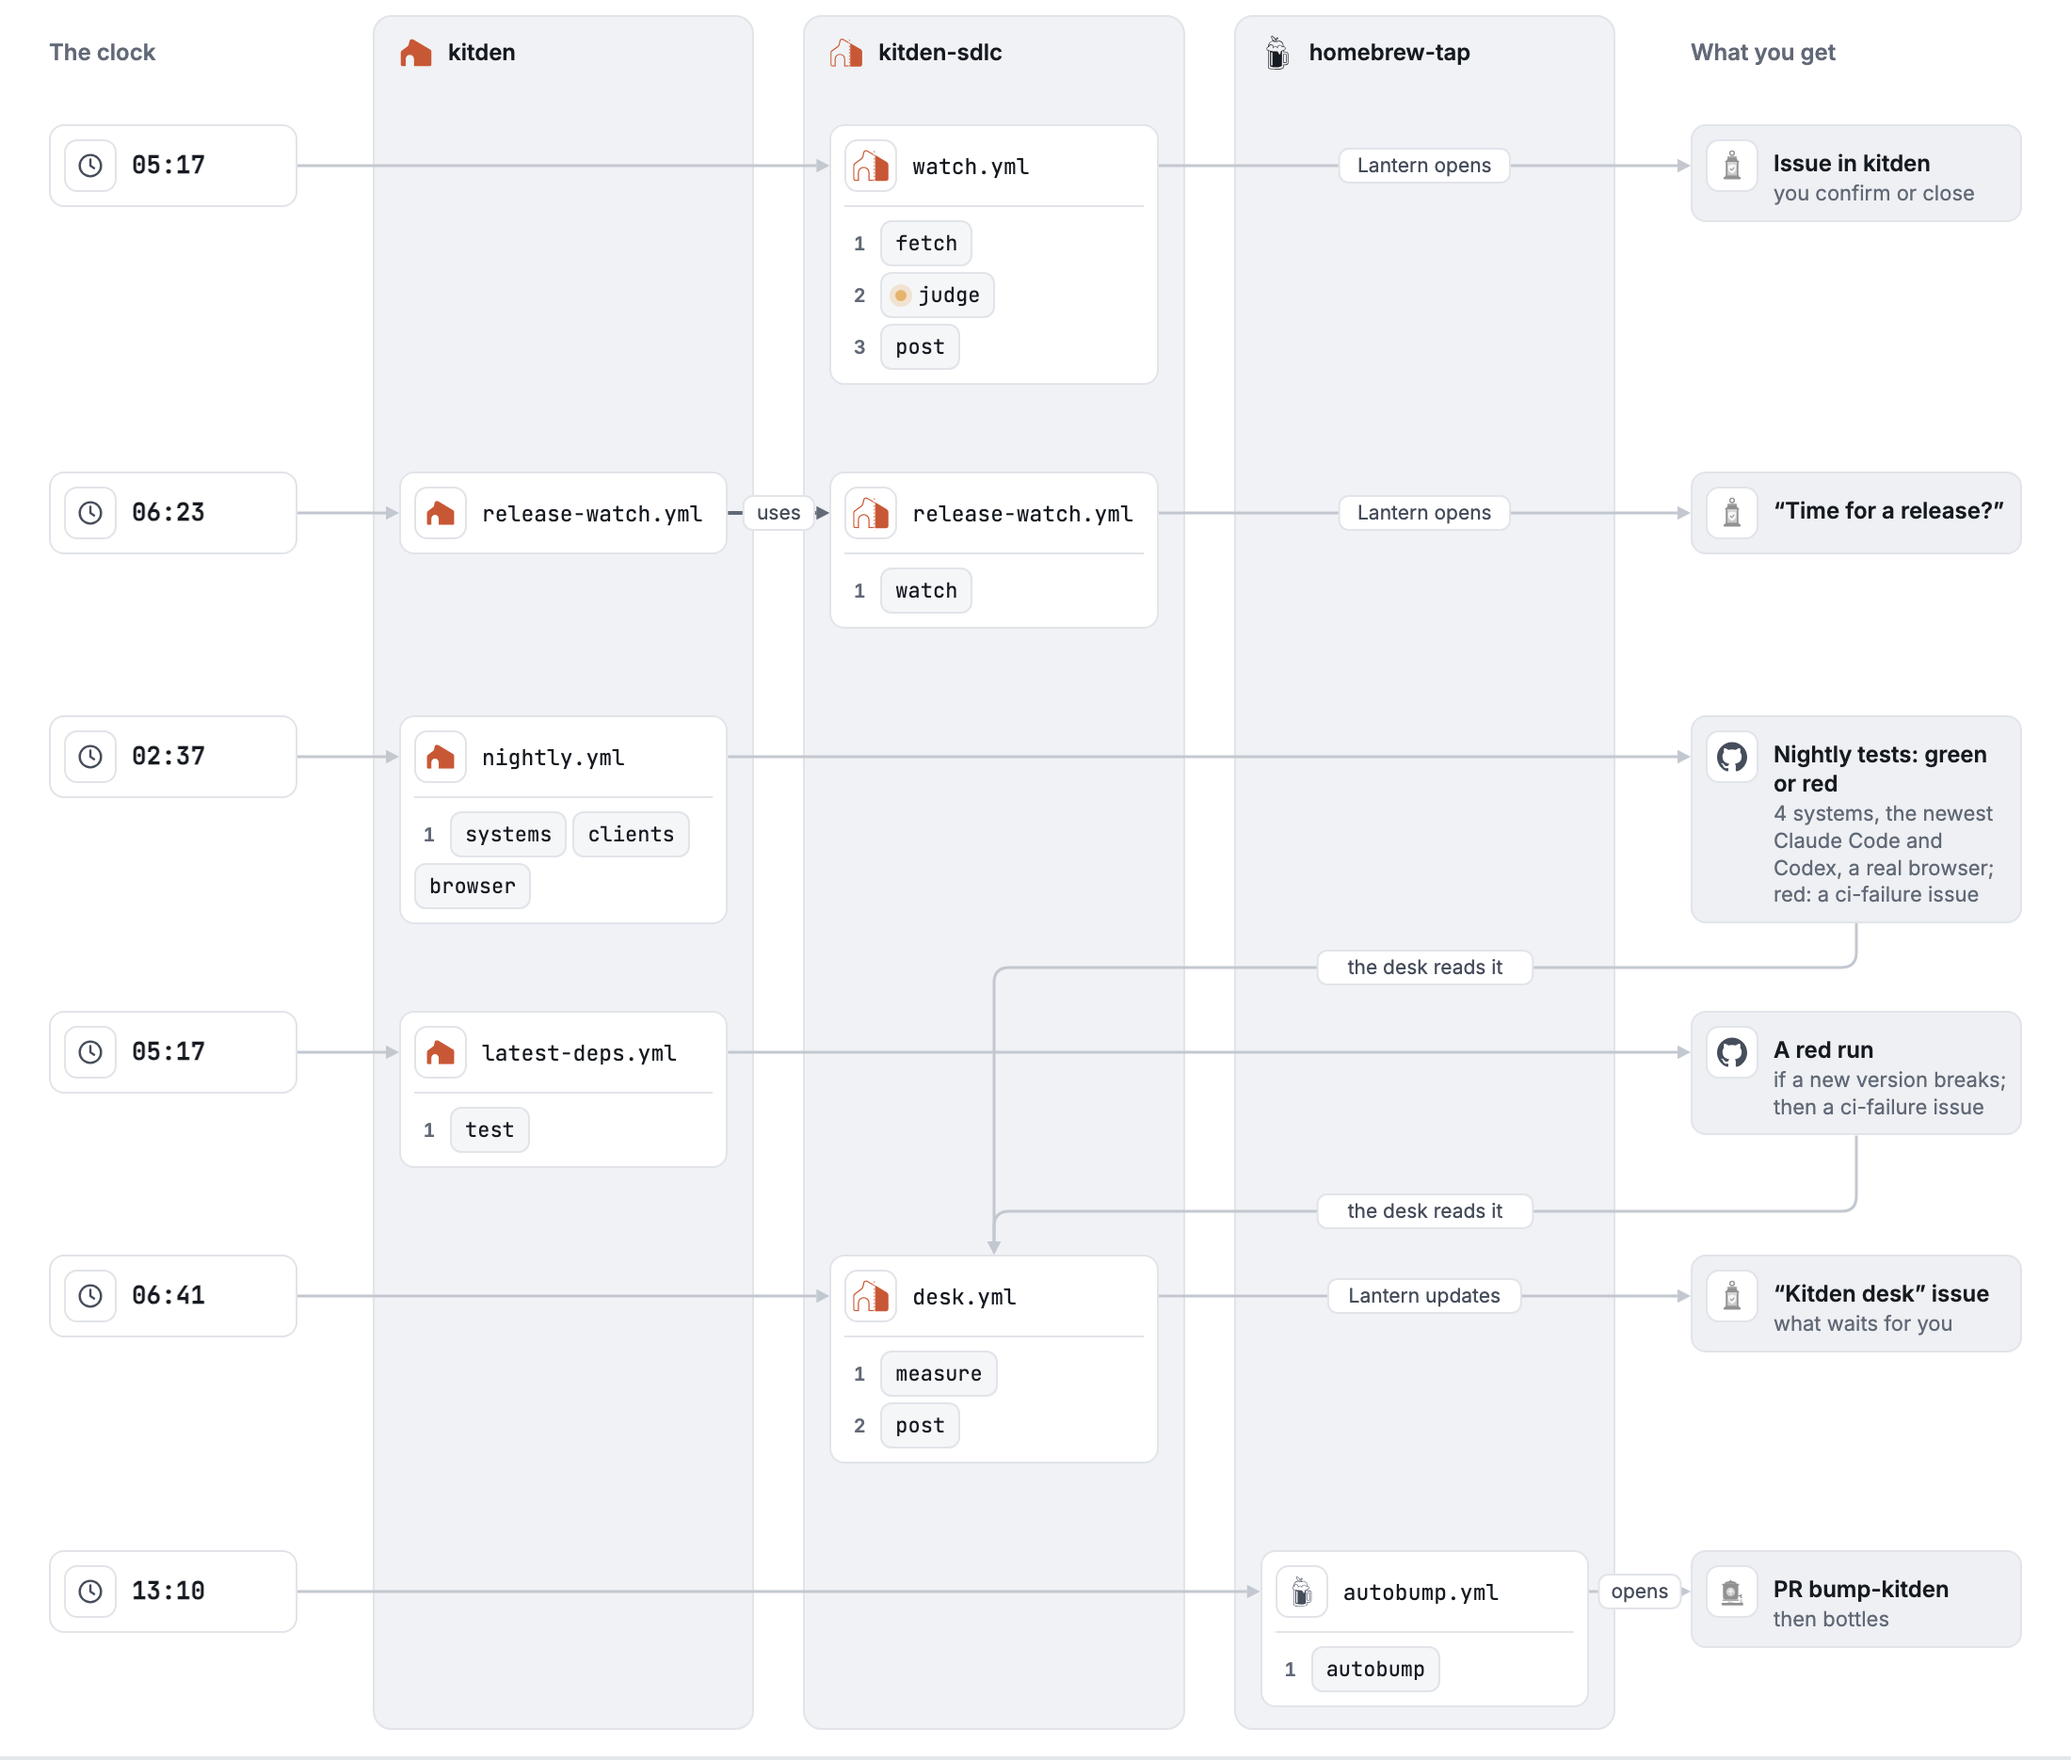
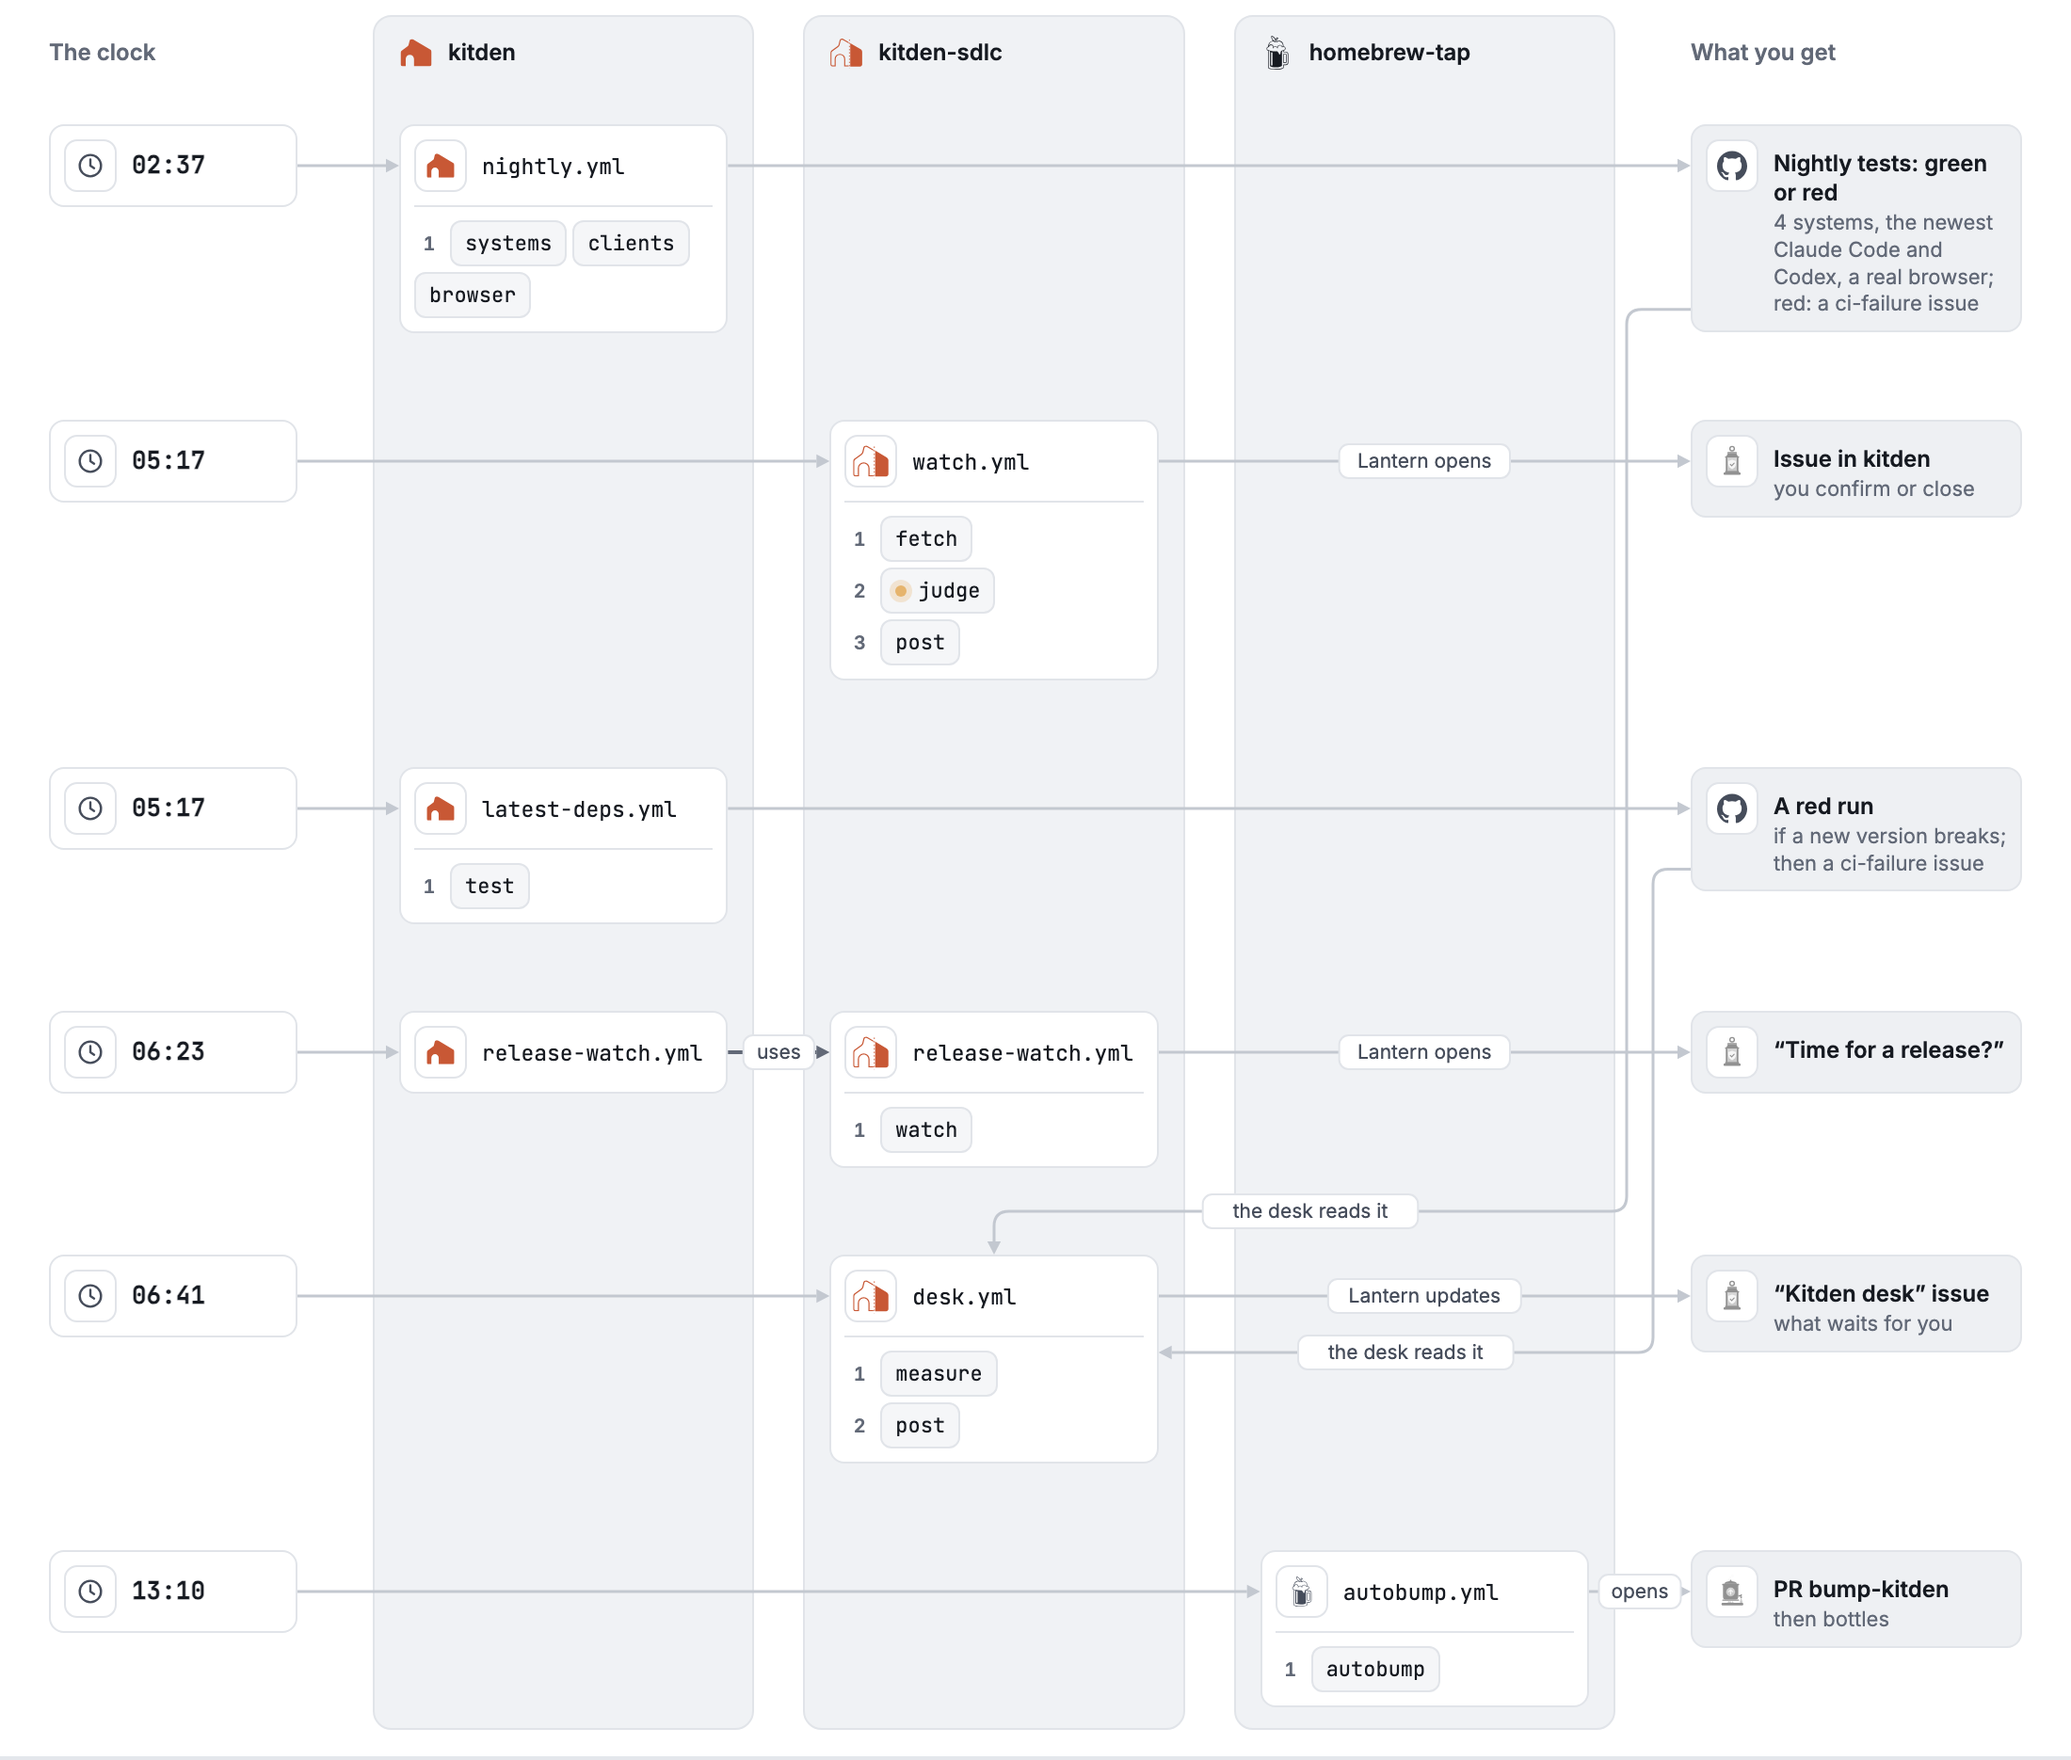
Keep the clock in order in the Every day story

diff --git a/docs/map/index.html b/docs/map/index.html
@@ -612,7 +612,10 @@ function setHash(h){ try { history.replaceState(null, '', '#' + h); } catch (e) 
 
 /* ================= map: cause and effect ================= */
 /* A story is rows of blocks. A block sits in the column of the place it runs in.
-   An edge is [from, to, why, shape]: h = same row, z = down to the next row, l = down then right. */
+   An edge is [from, to, why, shape]: h = same row, z = down to the next row, l = down then right,
+   r and t = out of the left side of a card in the last column, down the gap before that column,
+   then left into the right side (r) or, along the gap above its row, into the top (t) of a card
+   rows below. */
 const LANE = {you:1, k:2, s:3, t:4, get:5};
 const STORIES = {
   pr:{note:'Agents never block a merge. After you merge, the daily release watch notices, and every night nightly.yml runs the tests a pull request does not: see Every day.',
@@ -646,16 +649,16 @@ const STORIES = {
       ['bump','t-tests','starts','z'],['t-tests','t-auto-pull','tests pass','z'],['t-auto-pull','t-publish','starts','z'],['t-publish','brew','','h']]},
   day:{note:'Times are UTC. Nothing here needs you until an issue, a pull request or a red run shows up.',
     rows:[
-      [{id:'c1', kind:'clock', t:'05:17'}, {wf:'s-watch', stages:[['fetch'],['judge'],['post']]}, {id:'d1', kind:'thing', ic:'lantern', t:'Issue in kitden', sub:'you confirm or close'}],
-      [{id:'c3', kind:'clock', t:'06:23'}, {wf:'k-release-watch'}, {wf:'s-release-watch'}, {id:'d3', kind:'thing', ic:'lantern', t:'“Time for a release?”', go:'rel'}],
       [{id:'c0', kind:'clock', t:'02:37'}, {wf:'k-nightly'}, {id:'d0', kind:'thing', ic:'github', t:'Nightly tests: green or red', sub:'4 systems, the newest Claude Code and Codex, a real browser; red: a ci-failure issue'}],
+      [{id:'c1', kind:'clock', t:'05:17'}, {wf:'s-watch', stages:[['fetch'],['judge'],['post']]}, {id:'d1', kind:'thing', ic:'lantern', t:'Issue in kitden', sub:'you confirm or close'}],
       [{id:'c2', kind:'clock', t:'05:17'}, {wf:'k-latest-deps'}, {id:'d2', kind:'thing', ic:'github', t:'A red run', sub:'if a new version breaks; then a ci-failure issue'}],
+      [{id:'c3', kind:'clock', t:'06:23'}, {wf:'k-release-watch'}, {wf:'s-release-watch'}, {id:'d3', kind:'thing', ic:'lantern', t:'“Time for a release?”', go:'rel'}],
       [{id:'c4', kind:'clock', t:'06:41'}, {wf:'s-desk'}, {id:'d4', kind:'thing', ic:'lantern', t:'“Kitden desk” issue', sub:'what waits for you'}],
       [{id:'c5', kind:'clock', t:'13:10'}, {wf:'t-autobump'}, {id:'d5', kind:'thing', ic:'kettle', t:'PR bump-kitden', sub:'then bottles', go:'rel'}]
     ],
     edges:[['c0','k-nightly','','h'],['k-nightly','d0','','h'],['c1','s-watch','','h'],['s-watch','d1','Lantern opens','h'],['c2','k-latest-deps','','h'],['k-latest-deps','d2','','h'],
       ['c3','k-release-watch','','h'],['k-release-watch','s-release-watch','uses','h'],['s-release-watch','d3','Lantern opens','h'],
-      ['d0','s-desk','the desk reads it','z'],['d2','s-desk','the desk reads it','z'],
+      ['d0','s-desk','the desk reads it','t'],['d2','s-desk','the desk reads it','r'],
       ['c4','s-desk','','h'],['s-desk','d4','Lantern updates','h'],['c5','t-autobump','','h'],['t-autobump','d5','opens','h']]}
 };
 const flow = $('flow');
@@ -720,9 +723,11 @@ function draw(){
     else { const y = bottom[nodes[a].row] + 23; dir = 90;
       if (Math.abs(A.cx - B.cx) < 2){ pts = [[A.cx, A.b], [B.cx, B.t - 7]]; lx = A.cx; ly = (A.b + B.t) / 2; }
       else { pts = [[A.cx, A.b], [A.cx, y], [B.cx, y], [B.cx, B.t - 7]]; lx = (A.cx + B.cx) / 2; ly = y; } }
+    if (shape === 'r'){ const x = A.l - 20, y = B.t + 52; pts = [[A.l, A.b - 12], [x, A.b - 12], [x, y], [B.r + 7, y]]; lx = (x + B.r) / 2; ly = y; dir = 180; }
+    if (shape === 't'){ const x = A.l - 34, y = bottom[nodes[b].row - 1] + 23; pts = [[A.l, A.b - 12], [x, A.b - 12], [x, y], [B.cx, y], [B.cx, B.t - 7]]; lx = (x + B.cx) / 2; ly = y; dir = 90; }
     const [ex, ey] = pts[pts.length - 1], tw = why.length * 5.9 + 14;
     out += '<g class="fe' + (why === 'uses' ? ' u' : '') + '" data-e="' + i + '"><path d="' + line(pts) + '"/>' +
-      '<polygon points="0,0 -7,-3.6 -7,3.6" transform="translate(' + (dir ? ex : ex + 7) + ' ' + (dir ? ey + 7 : ey) + ') rotate(' + dir + ')"/>' +
+      '<polygon points="0,0 -7,-3.6 -7,3.6" transform="translate(' + (dir === 180 ? ex - 7 : dir ? ex : ex + 7) + ' ' + (dir === 90 ? ey + 7 : ey) + ') rotate(' + dir + ')"/>' +
       (why ? '<rect x="' + (lx - tw / 2) + '" y="' + (ly - 9) + '" width="' + tw + '" height="18" rx="5"/><text x="' + lx + '" y="' + (ly + 3.6) + '" text-anchor="middle">' + esc(why) + '</text>' : '') + '</g>';
   });
   svg.innerHTML = out;

diff --git a/tests/test_map_text.py b/tests/test_map_text.py
@@ -212,16 +212,16 @@ def test_the_every_day_story_draws_the_nightly_run_and_who_reads_it():
     assert "red: a ci-failure issue" in day and "emails" not in day
     assert "['c0','k-nightly','','h'],['k-nightly','d0','','h']" in day
     assert day.count("'s-desk','the desk reads it'") == 2
-    assert "['d0','s-desk','the desk reads it','z']" in day
-    assert "['d2','s-desk','the desk reads it','z']" in day
+    assert "['d0','s-desk','the desk reads it','t']" in day
+    assert "['d2','s-desk','the desk reads it','r']" in day
 
 
-def test_the_nightly_and_latest_deps_rows_sit_right_above_the_desk():
-    """So that the edges into the desk run down into it (shape z) and cross no card."""
-    rows = HTML.split("day:{")[1].split("rows:[")[1].split("\n    ],")[0].splitlines()
-    firsts = [re.search(r"\{wf:'([\w-]+)'", row).group(1) for row in rows if "wf:" in row]
-    at = firsts.index("s-desk")
-    assert firsts[at - 2:at + 1] == ["k-nightly", "k-latest-deps", "s-desk"]
+def test_the_every_day_clock_runs_in_time_order():
+    """The wires into the desk go down the gap before the last column, so no row moves."""
+    rows = HTML.split("day:{")[1].split("rows:[")[1].split("\n    ],")[0]
+    times = re.findall(r"kind:'clock', t:'(\d\d:\d\d)'", rows)
+    assert times == sorted(times) and times[0] == "02:37" and len(times) == 6
+    assert "if (shape === 'r')" in HTML and "if (shape === 't')" in HTML
 
 
 def test_every_step_in_the_workflows_view_shows_its_number_never_an_icon():
